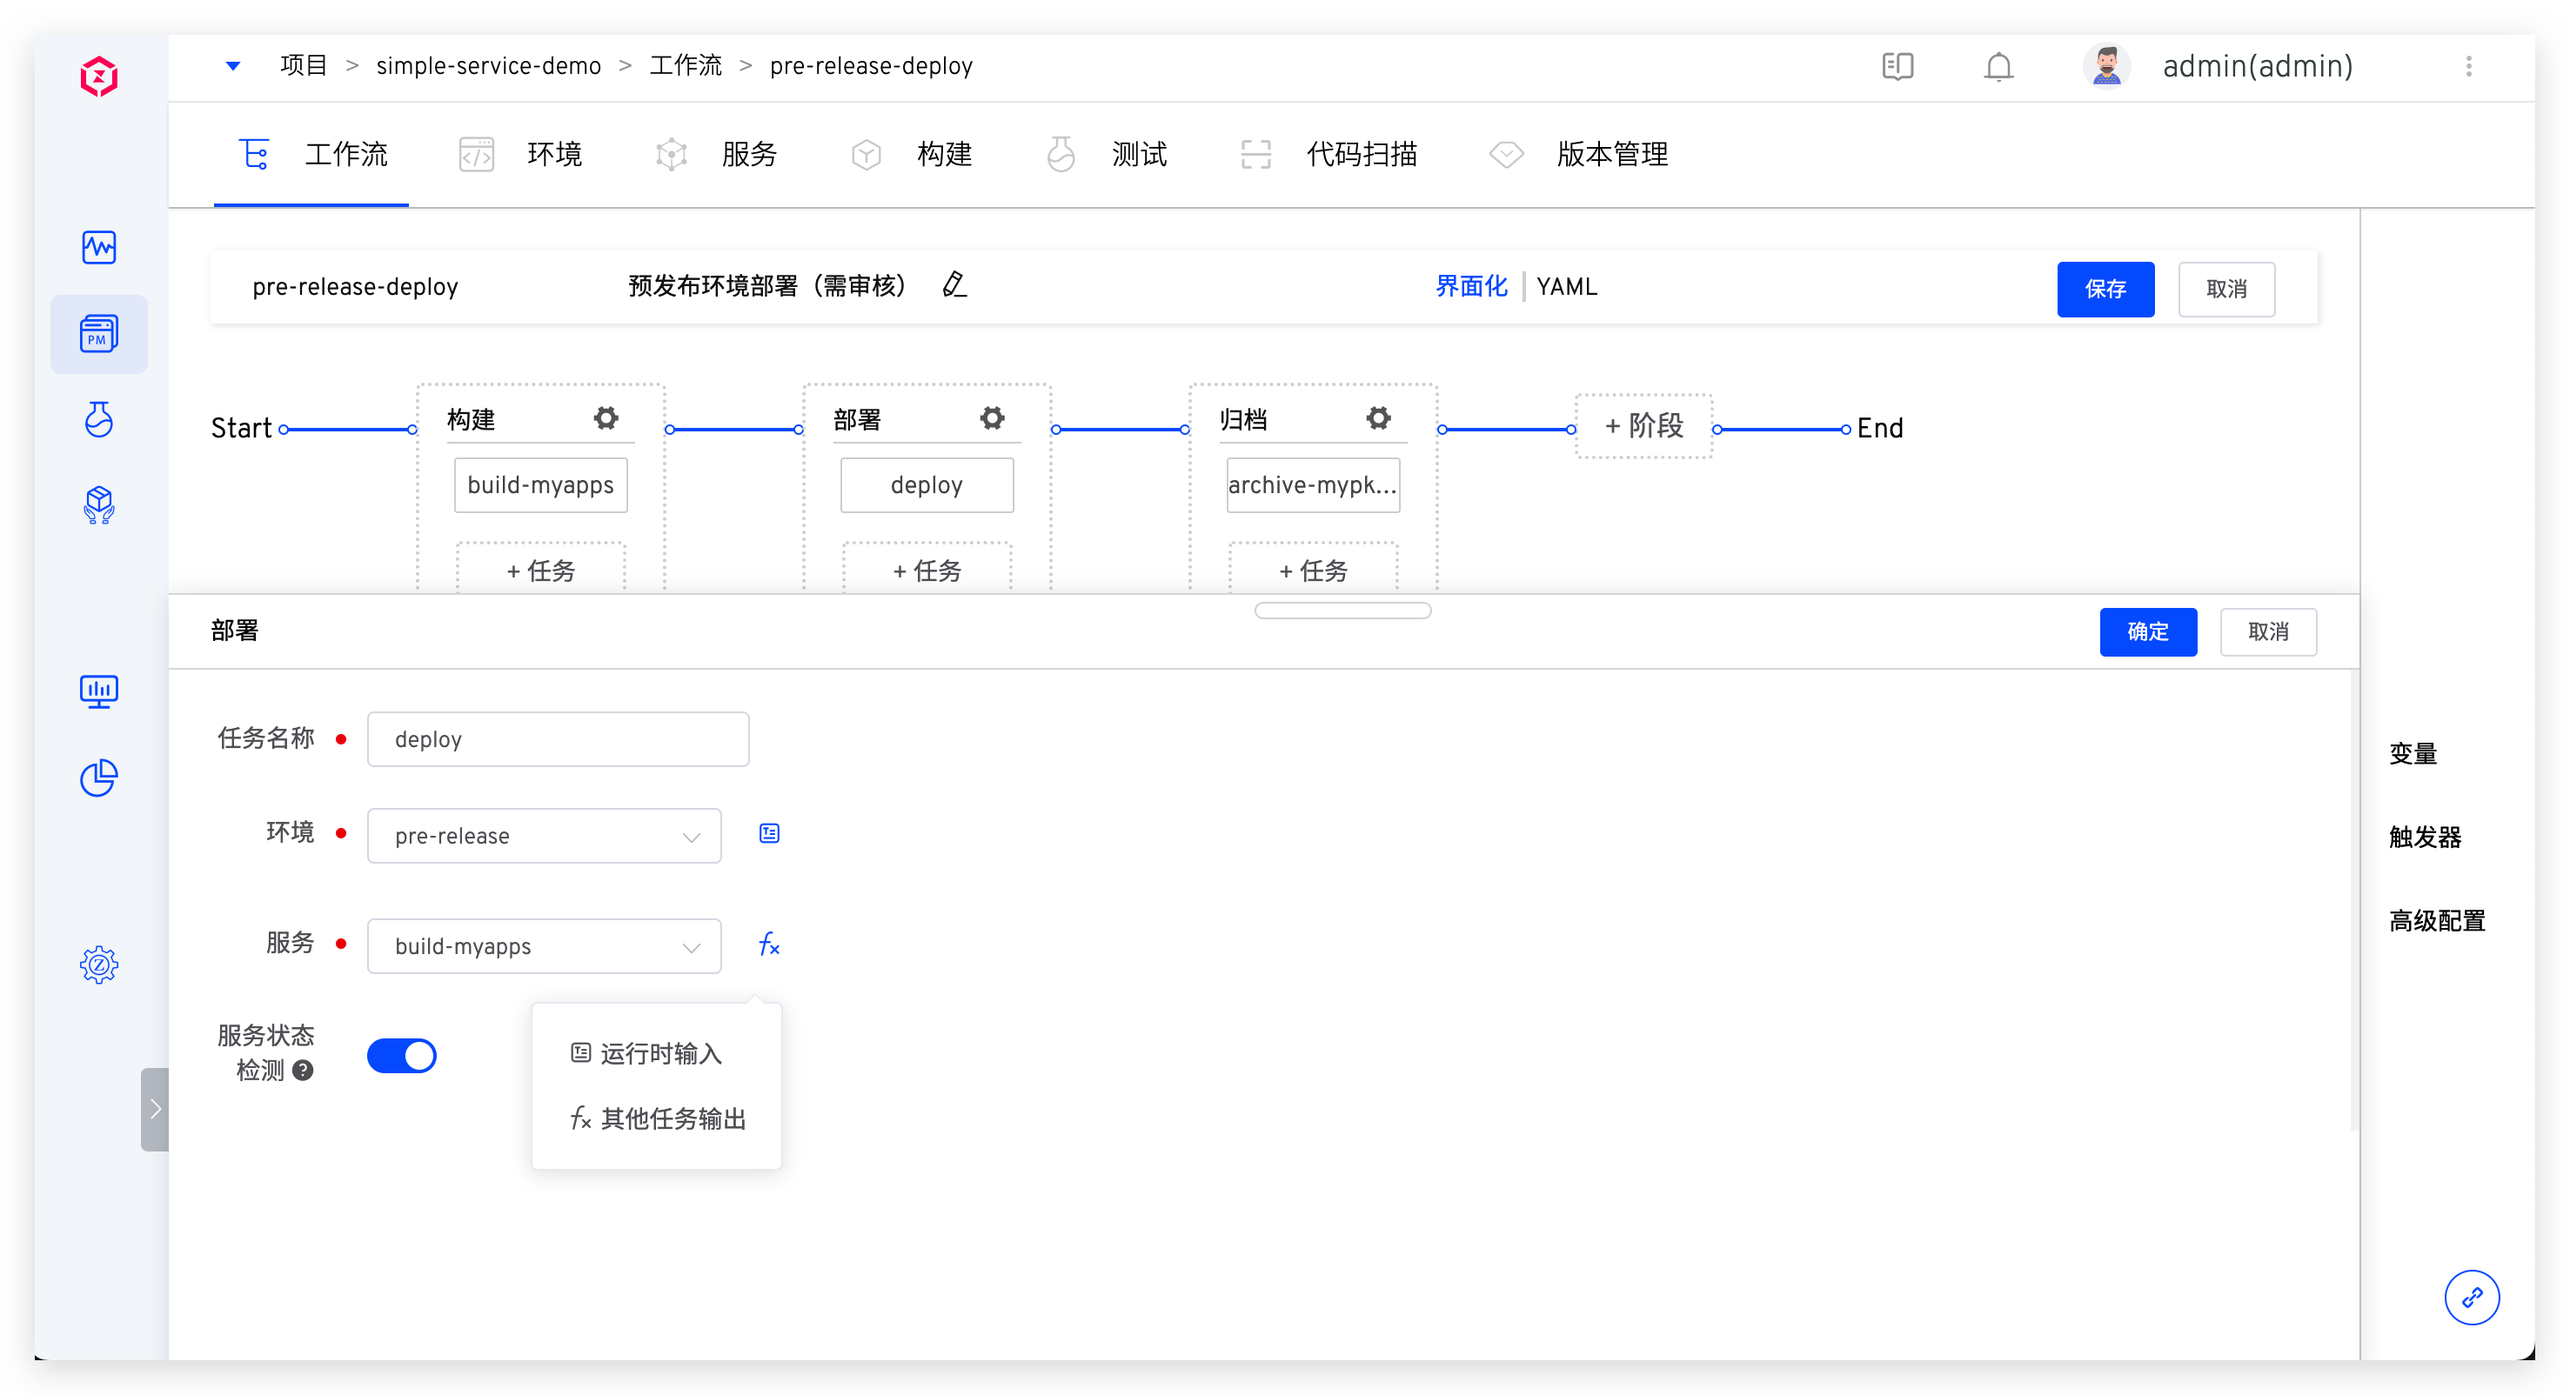
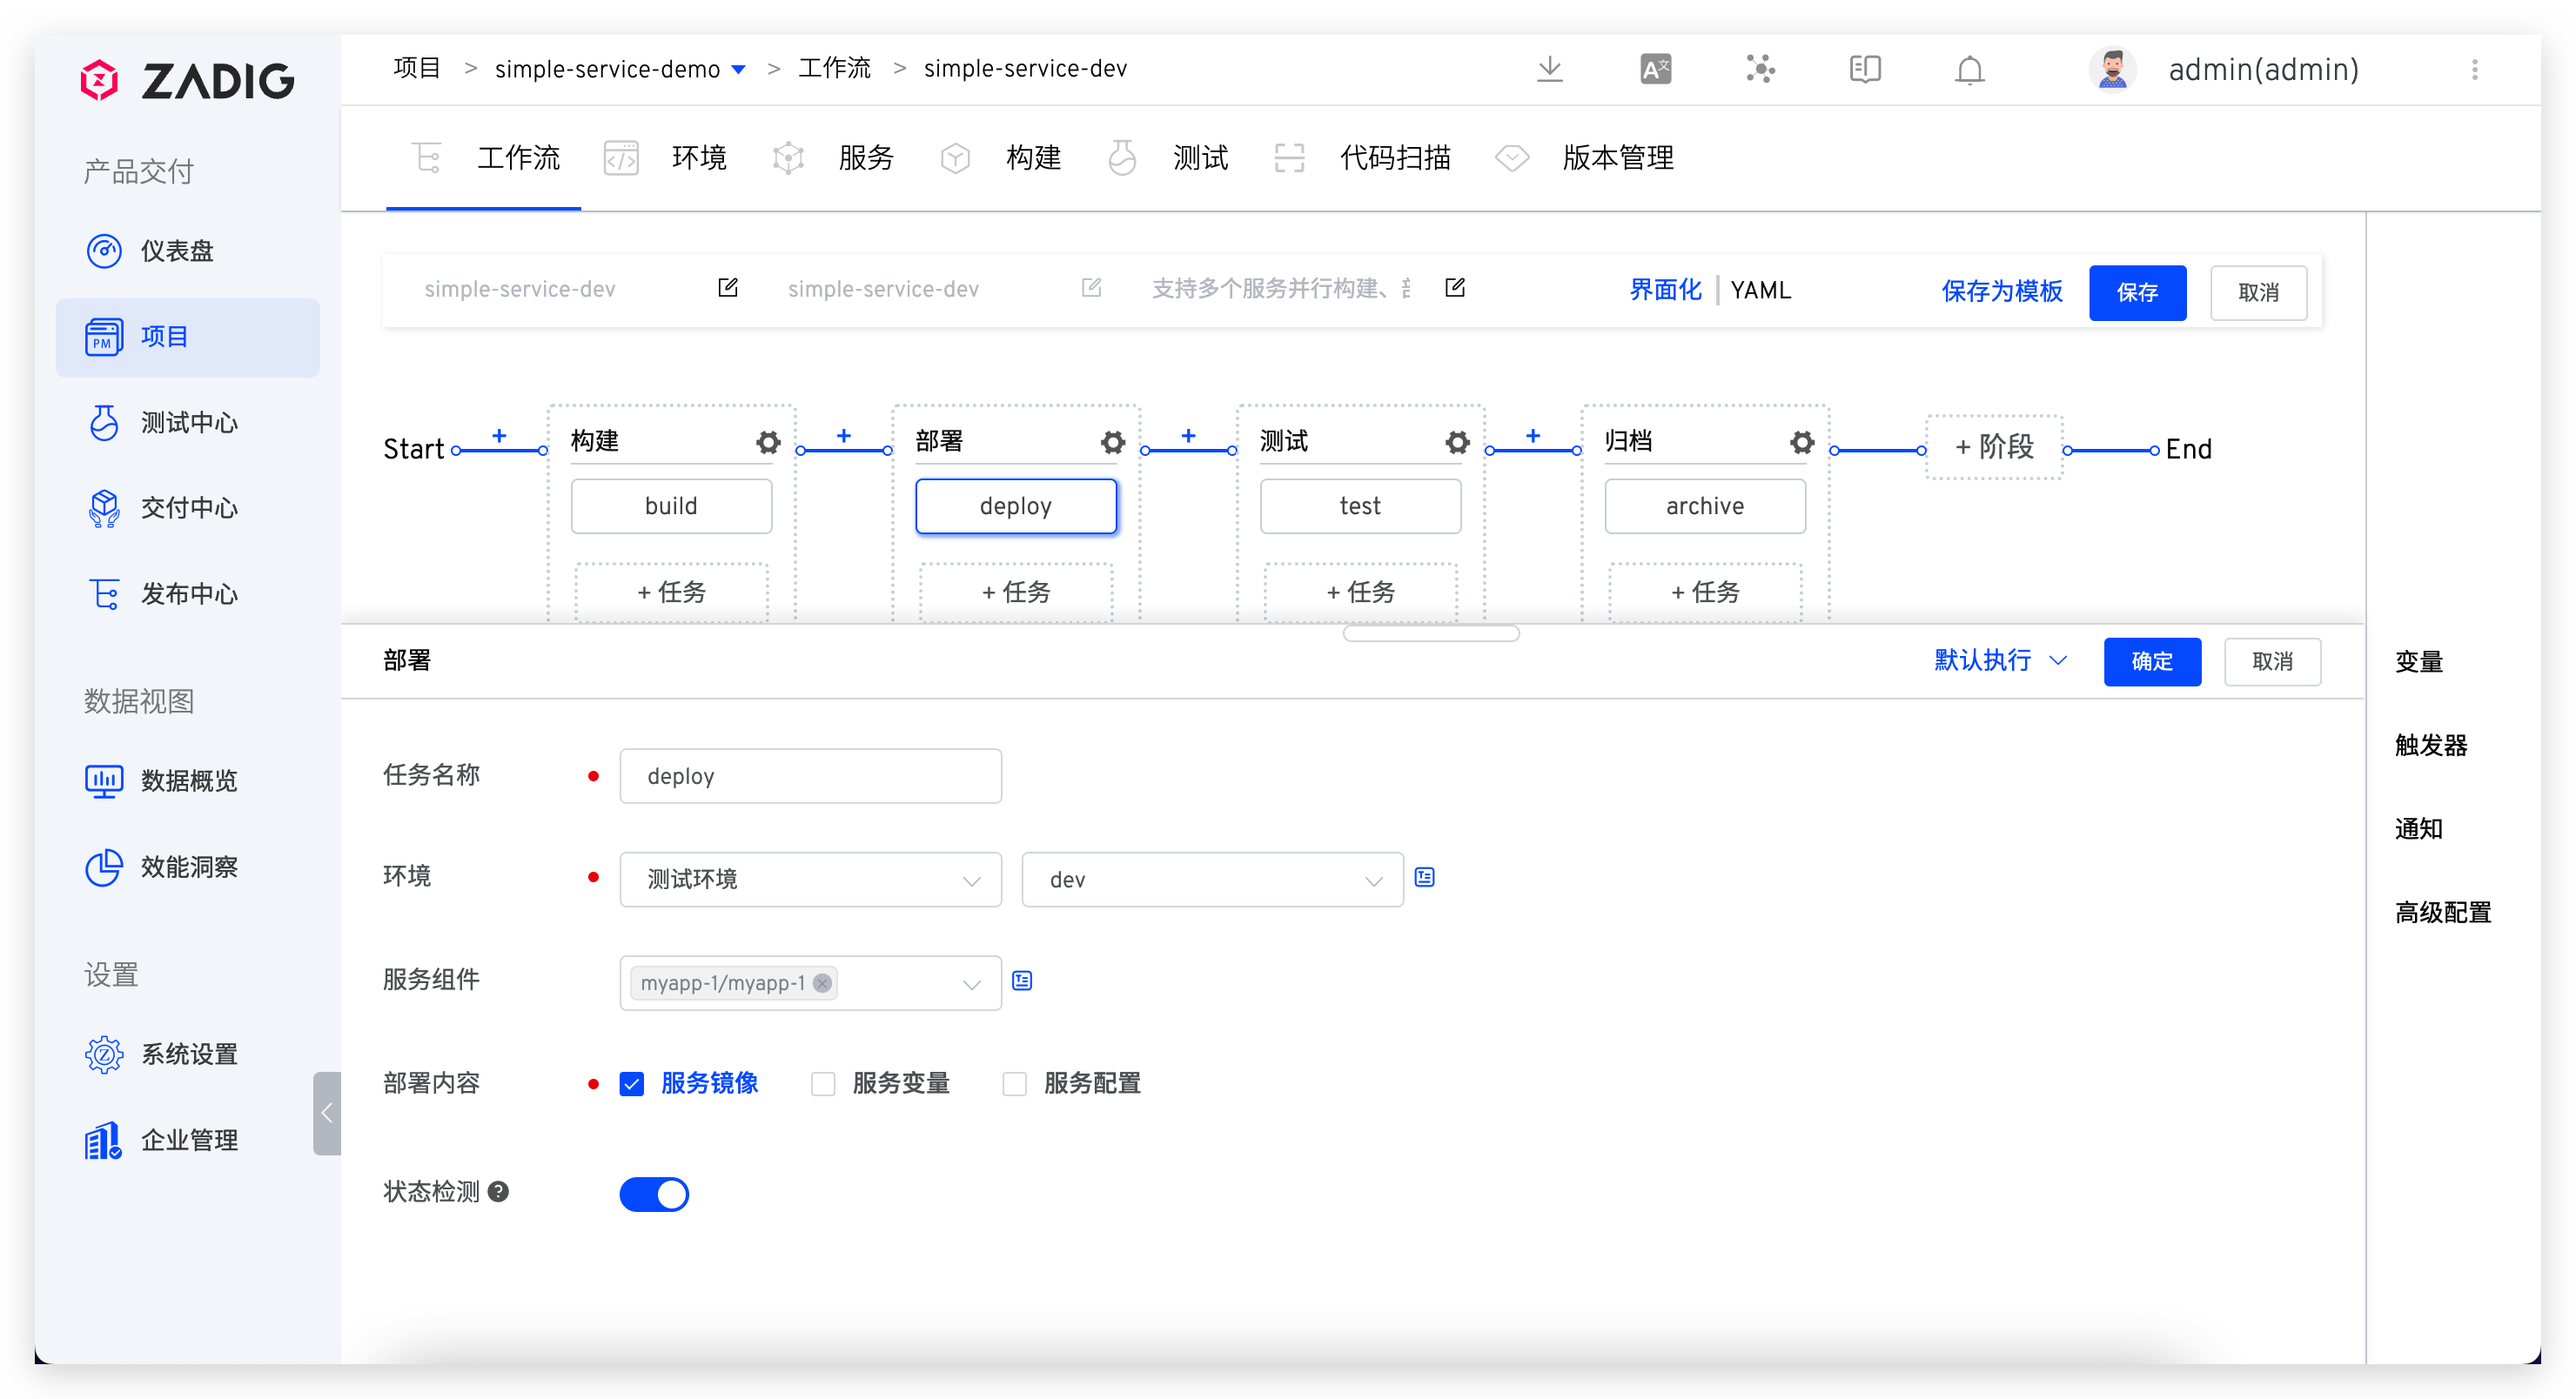
fix comments

diff --git a/dev/04.项目/02.工作流/04.workflow_jobs.md b/dev/04.项目/02.工作流/04.workflow_jobs.md
@@ -39,8 +39,12 @@ permalink: /dev/project/workflow-jobs/
 参数说明：
 - `任务名称`：支持 32 位以内的小写英文字母、数字或者中划线，且以小写英文字母开头；在同一个自定义工作流中，任务名称需唯一
 - `环境`：选择要部署的环境，支持三种配置方式，具体请参考 [部署任务变量](/dev/project/common-workflow/#部署任务-2) 中关于环境信息的描述
-- `服务`：配置要部署的服务，支持两种配置方式，具体请参考 [部署任务变量](/dev/project/common-workflow/#部署任务-2) 中关于服务信息的描述
-- `服务状态检测`：若开启，部署任务会轮询服务运行状态
+- `服务组件`：配置要部署的服务组件，支持两种配置方式，具体请参考 [部署任务变量](/dev/project/common-workflow/#部署任务-2) 中关于服务信息的描述
+- `部署内容`<Badge text="企业版"/>：配置要部署的内容，包括以下三种选项：
+  - `服务镜像`：更新服务的镜像
+  - `服务变量`：更新服务的变量，变量的定义请参考：[服务变量](/dev/project/service/k8s/#自定义变量)
+  - `服务配置`：更新服务的配置，服务配置来源请参考：[服务配置](http://localhost:8080/zadig/dev/project/service/k8s/#新建服务)
+- `状态检测`：若开启，部署任务会轮询服务运行状态
   - 服务实例的 Replicas = AvailableReplicas，则部署成功，工作流任务状态为成功
   - 服务容器因 ImagePullBackOff/ErrImagePull/CrashLoopBackOff/ErrImageNeverPull 原因而处于 waiting 状态时，视为部署失败，工作流任务状态为失败
   - 当超过部署超时时间后仍没有满足成功/失败条件，则部署超时，部署超时设置可参考 [服务策略配置](/dev/project/service/k8s/#策略配置)

diff --git a/dev/04.项目/02.工作流/02.common_workflow.md b/dev/04.项目/02.工作流/02.common_workflow.md
@@ -583,11 +583,17 @@ multi_run: false
 
 > 支持对构建任务、测试任务以及通用任务进行调试。
 
-点击`调试`启动工作流进入调试模式，可在工作流执行时增加断点操作，便于调试工作流配置。
+点击`调试`启动工作流进入调试模式，可在工作流中的构建/测试/通用任务中的 Shell 脚本执行前增加断点操作，便于调试工作流配置。
 
 ![debug_workflow](../_images/debug_mode.png)
 
-点击`调试控制台`即可登录到当前任务的容器中，待当前任务执行完毕后，点击`继续`，工作流才会继续执行。
+也支持在执行工作流后，对指定的任务增加断点调试，点击右上角的调试图标后配置断点位置即可。
+
+![debug_workflow](../_images/debug_mode_2.png)
+
+![debug_workflow](../_images/debug_mode_3.png)
+
+点击`调试控制台`即可登录到当前任务的容器中，待调试完毕后，点击`继续`，工作流才会继续执行。
 
 ![debug_workflow](../_images/debug_mode_1.png)
 
